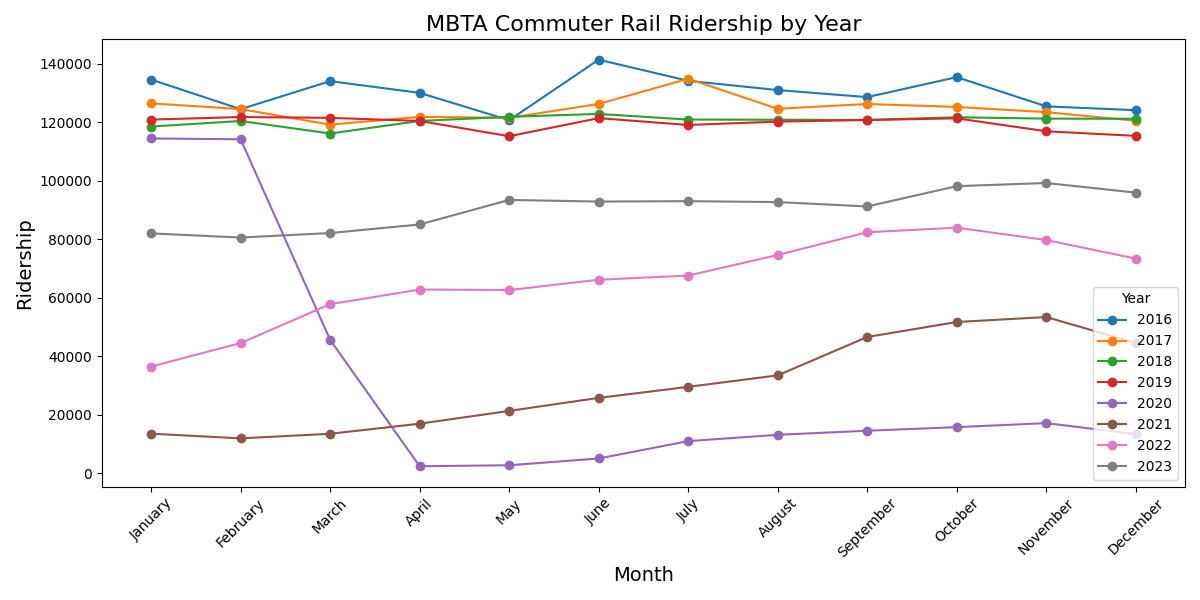
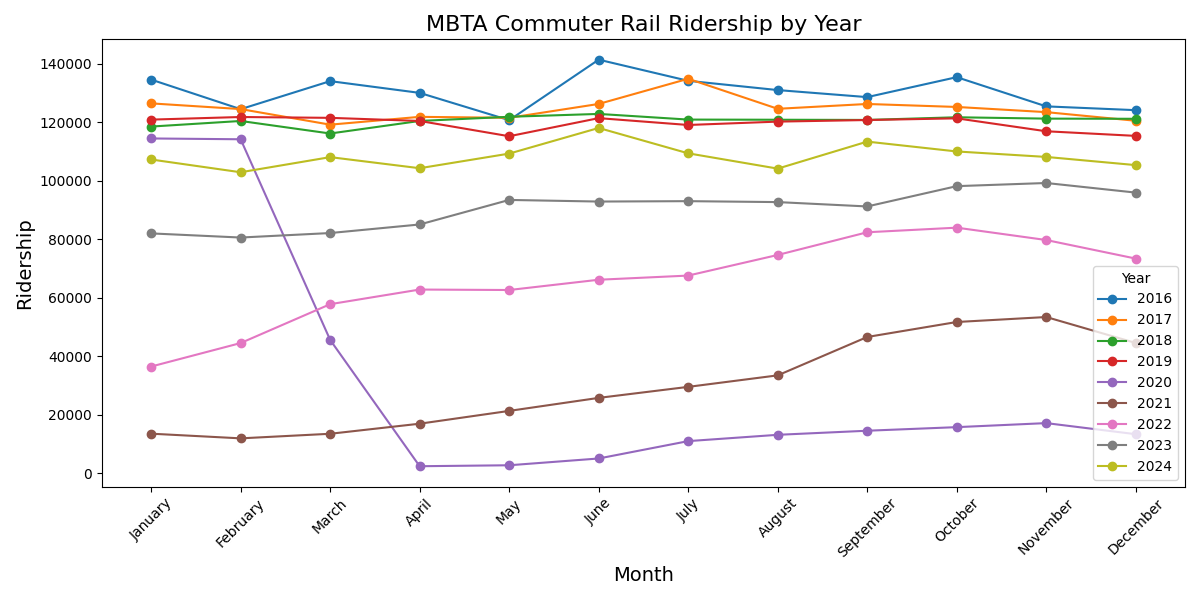
Created visualizations for ridership & fine tuned model for random tree regression.

diff --git a/codes/ridership.py b/codes/ridership.py
@@ -5,6 +5,13 @@ from sklearn.ensemble import RandomForestRegressor
 from sklearn.model_selection import train_test_split
 from sklearn.metrics import mean_absolute_error, r2_score
 
+"""
+A few notes regarding this analysis:
+Some data needed to be adjusted in the CSV file to account for specific factors, such as line closures,
+COVID-19, etc. After fine tuning, the average R-squared value is about 0.93, with an average Mean Absolute
+Error of around 5700, so the model seems to have done quite well at predictions.
+"""
+
 def rdshLineChart():
     """
     Return a Pandas dataframe for the ridership CSV file, as well as 
@@ -15,7 +22,7 @@ def rdshLineChart():
     Returns:
         Pandas dataframe
     """
-    file_path = "/workspaces/MBTA-Data-Analysis/data/commuterridership.csv"
+    file_path = "/workspaces/MBTA-Data-Analysis/data/commuterridership2024.csv"
     data = pd.read_csv(file_path, index_col=0)
 
     plt.figure(figsize=(12, 6))
@@ -43,8 +50,7 @@ def predictRiders():
     Returns:
         None
     """
-    file_path = "/workspaces/MBTA-Data-Analysis/data/commuterridership.csv"
-    data = pd.read_csv(file_path, index_col=0)
+    data = rdshLineChart()
     
     data = data.T.reset_index()
     print(data, "\n")
@@ -69,36 +75,52 @@ def predictRiders():
     r2 = r2_score(y_test, y_pred)
     print(f"Mean Absolute Error: {mae}")
     print(f"R-squared: {r2}")
-    
-    plt.figure(figsize=(12, 6))
-    plt.scatter(y_test, y_pred, alpha=0.7, edgecolor='k')
-    plt.plot([y_test.min(), y_test.max()], [y_test.min(), y_test.max()], color='red', lw=2)
-    plt.title("Predicted vs. Actual Rider Counts")
-    plt.xlabel("Actual Rider Counts")
-    plt.ylabel("Predicted Rider Counts")
-    plt.grid(alpha=0.3)
-    plt.savefig("scattered")
 
     data["Predicted"] = model.predict(X)
 
     print(data)
-    
-    """
+
+    post_2020_data = data[data["Year"] >= 2020]
+
+    month_growth_rates = (
+        data.groupby("Month")["Rider_Count"]
+        .apply(lambda x: (x.values[-1] - x.values[0]) / (x.index[-1] - x.index[0] + 1))
+    )
+
+    future_years = [2025]
+    future_predictions = []
+
+    for year in future_years:
+        predictions = []
+        for month in range(1, 13):
+            latest_value = data[
+                (data["Year"] == 2024) & (data["Month"] == month)
+            ]["Rider_Count"].values[0]
+            
+            predicted_value = latest_value + month_growth_rates[month] * (year - 2024)
+            predictions.append(predicted_value)
+        
+        future_predictions.append(pd.Series(predictions, index=range(1, 13), name=year))
+
+    future_df = pd.concat(future_predictions, axis=1)
+    future_df.columns = ["2025"]
+
     plt.figure(figsize=(12, 6))
-    plt.plot(data["Rider_Count"], label="Actual", marker='o')
-    plt.plot(data["Predicted"], label="Predicted", linestyle='--', marker='x')
-    plt.legend()
-    plt.title("Actual vs. Predicted Rider Counts Over Time")
-    plt.xlabel("Time (Year-Month)")
-    plt.ylabel("Rider Counts")
-    plt.grid(alpha=0.3)
-    plt.xticks(np.arange(0, len(data), step=12), data["Year"].unique(), rotation=45)
-    plt.tight_layout()
-    plt.savefig("monthly_ridership_predictions")
-    plt.show()
-    """
 
-
+    for year in future_df.columns:
+        plt.plot(future_df.index, future_df[year], label=f"Predicted ridership for {year}", marker="o")
+    
+    plt.xlabel("Month")
+    plt.ylabel("Rider Count")
+    plt.title("Predicted Monthly Ridership for 2025")
+    plt.xticks(range(1, 13), 
+               ["Jan", "Feb", "Mar", "Apr", "May", "Jun", 
+                "Jul", "Aug", "Sep", "Oct", "Nov", "Dec"])
+    legend_text = f"R² = {r2:.2f}, MAE = {mae:.0f}"
+    plt.legend(title=legend_text)
+    plt.grid(True)
+    plt.savefig("ridershippredictions")
+    
 if __name__ == "__main__":
     
     predictRiders()
